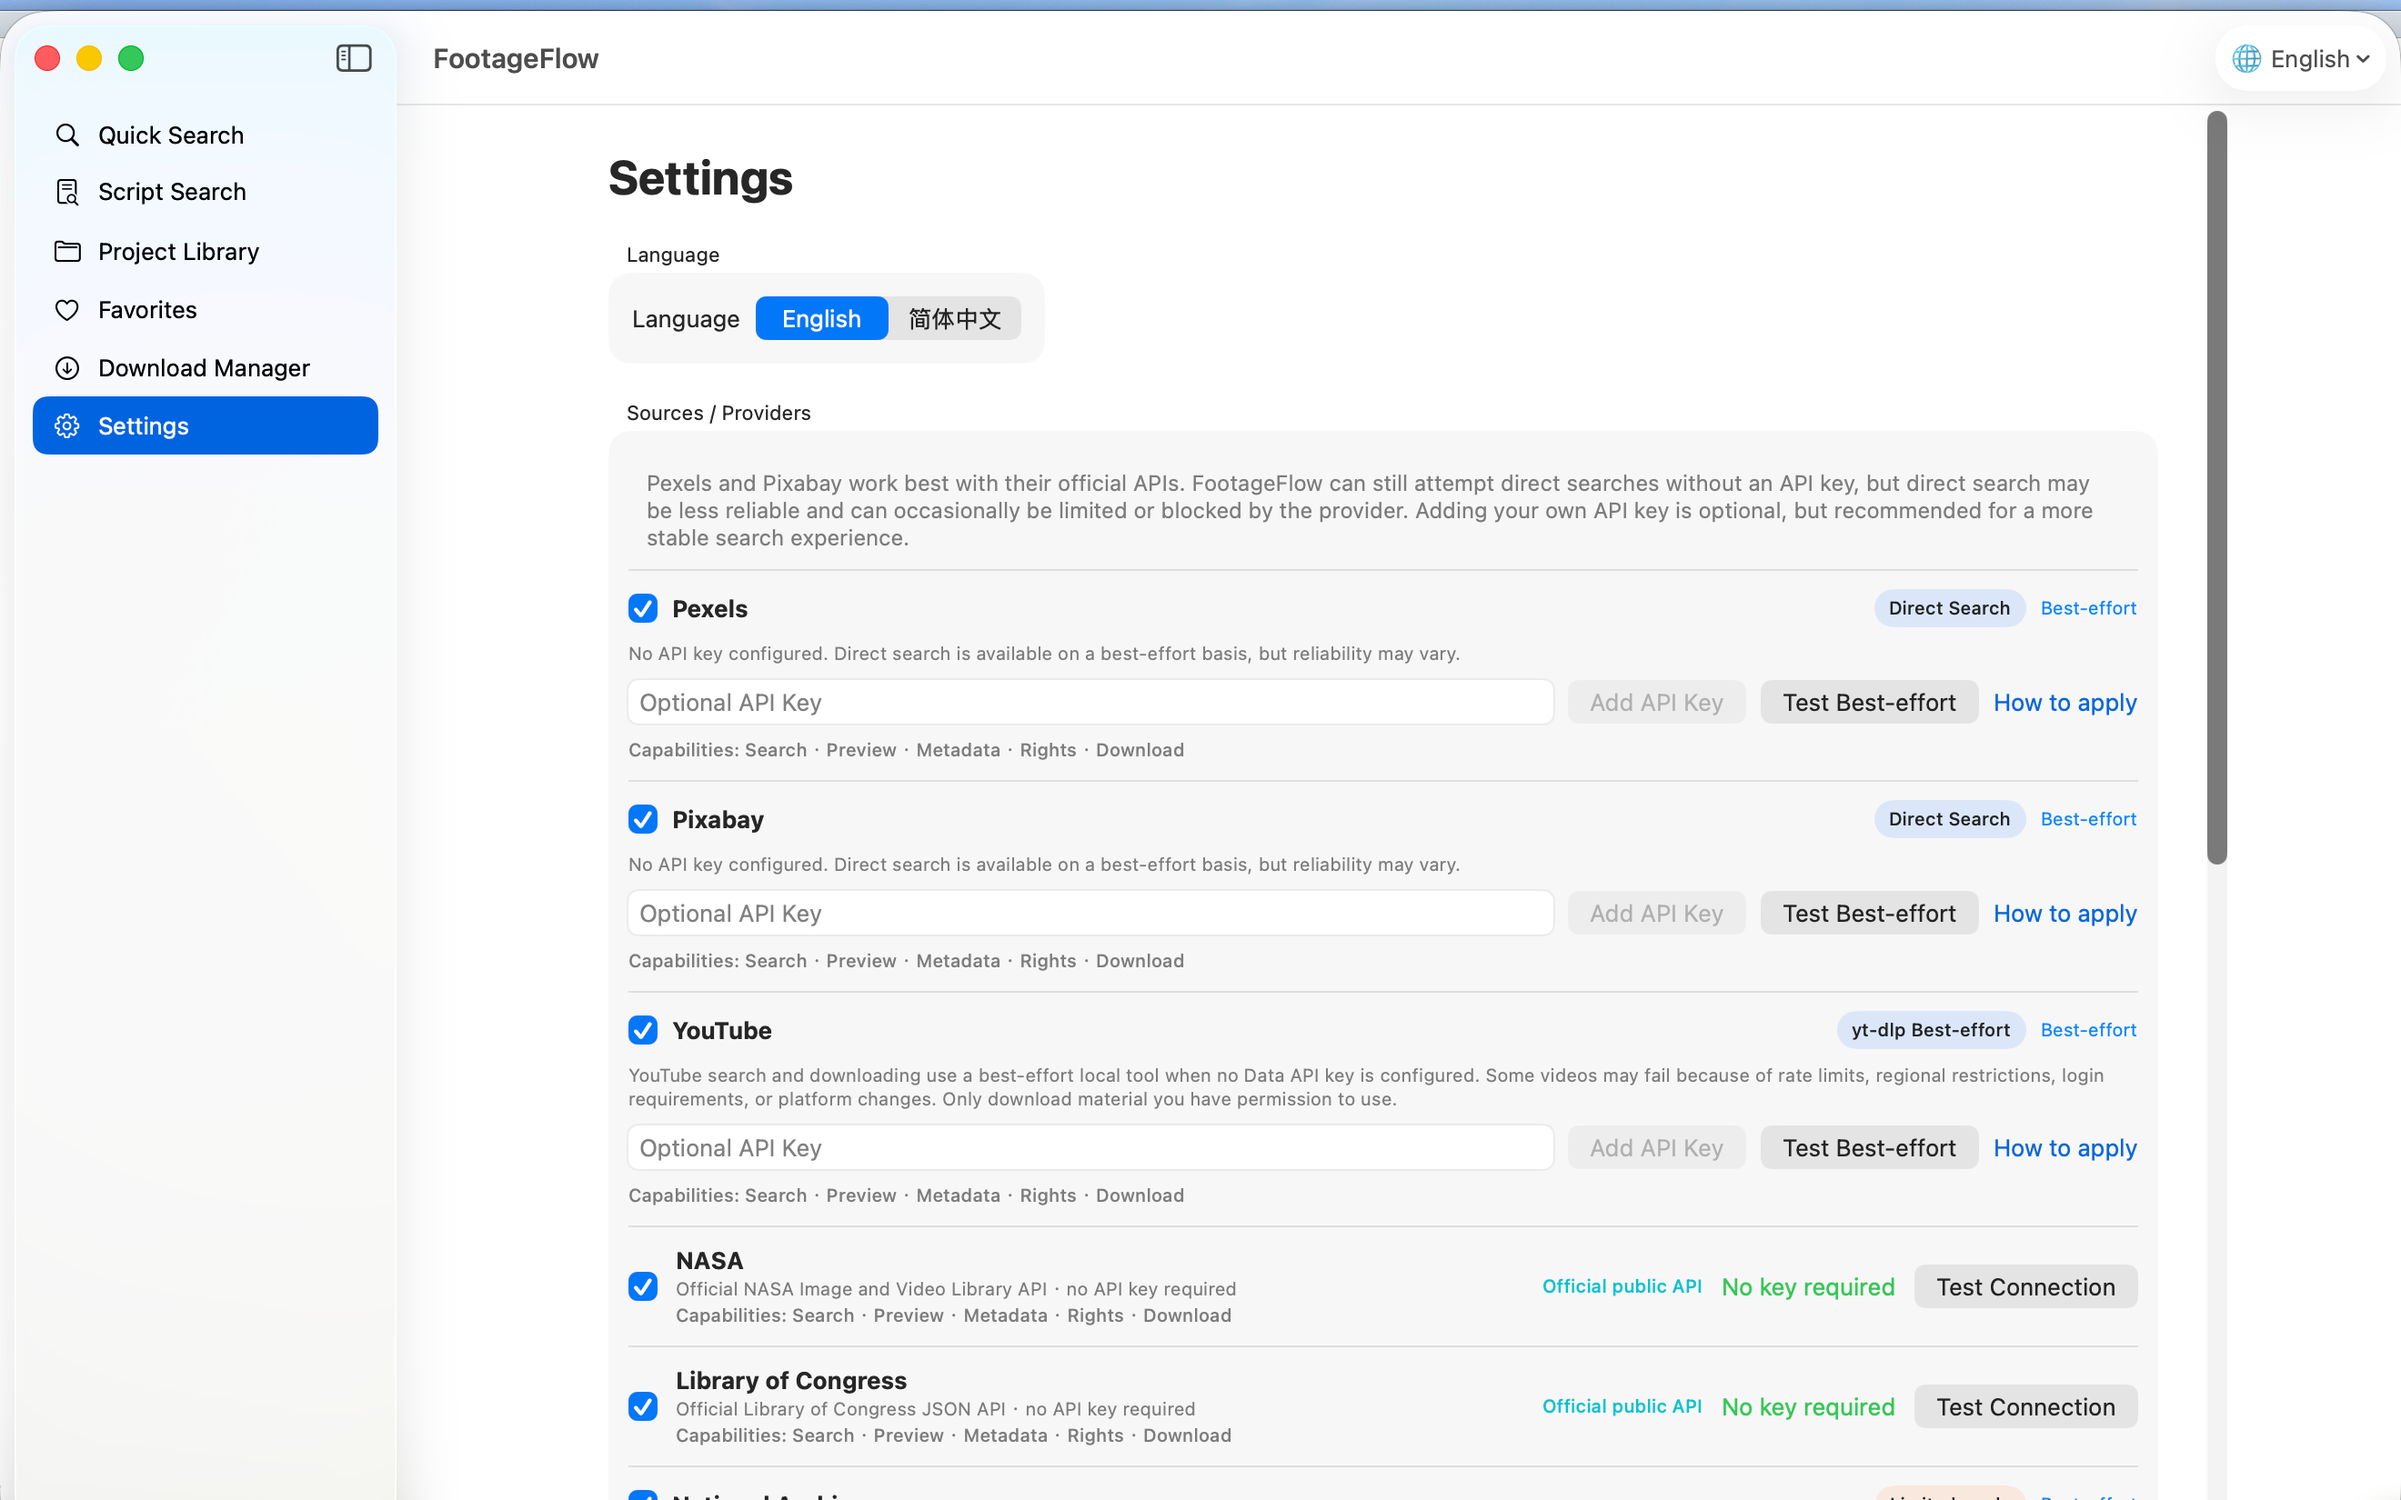
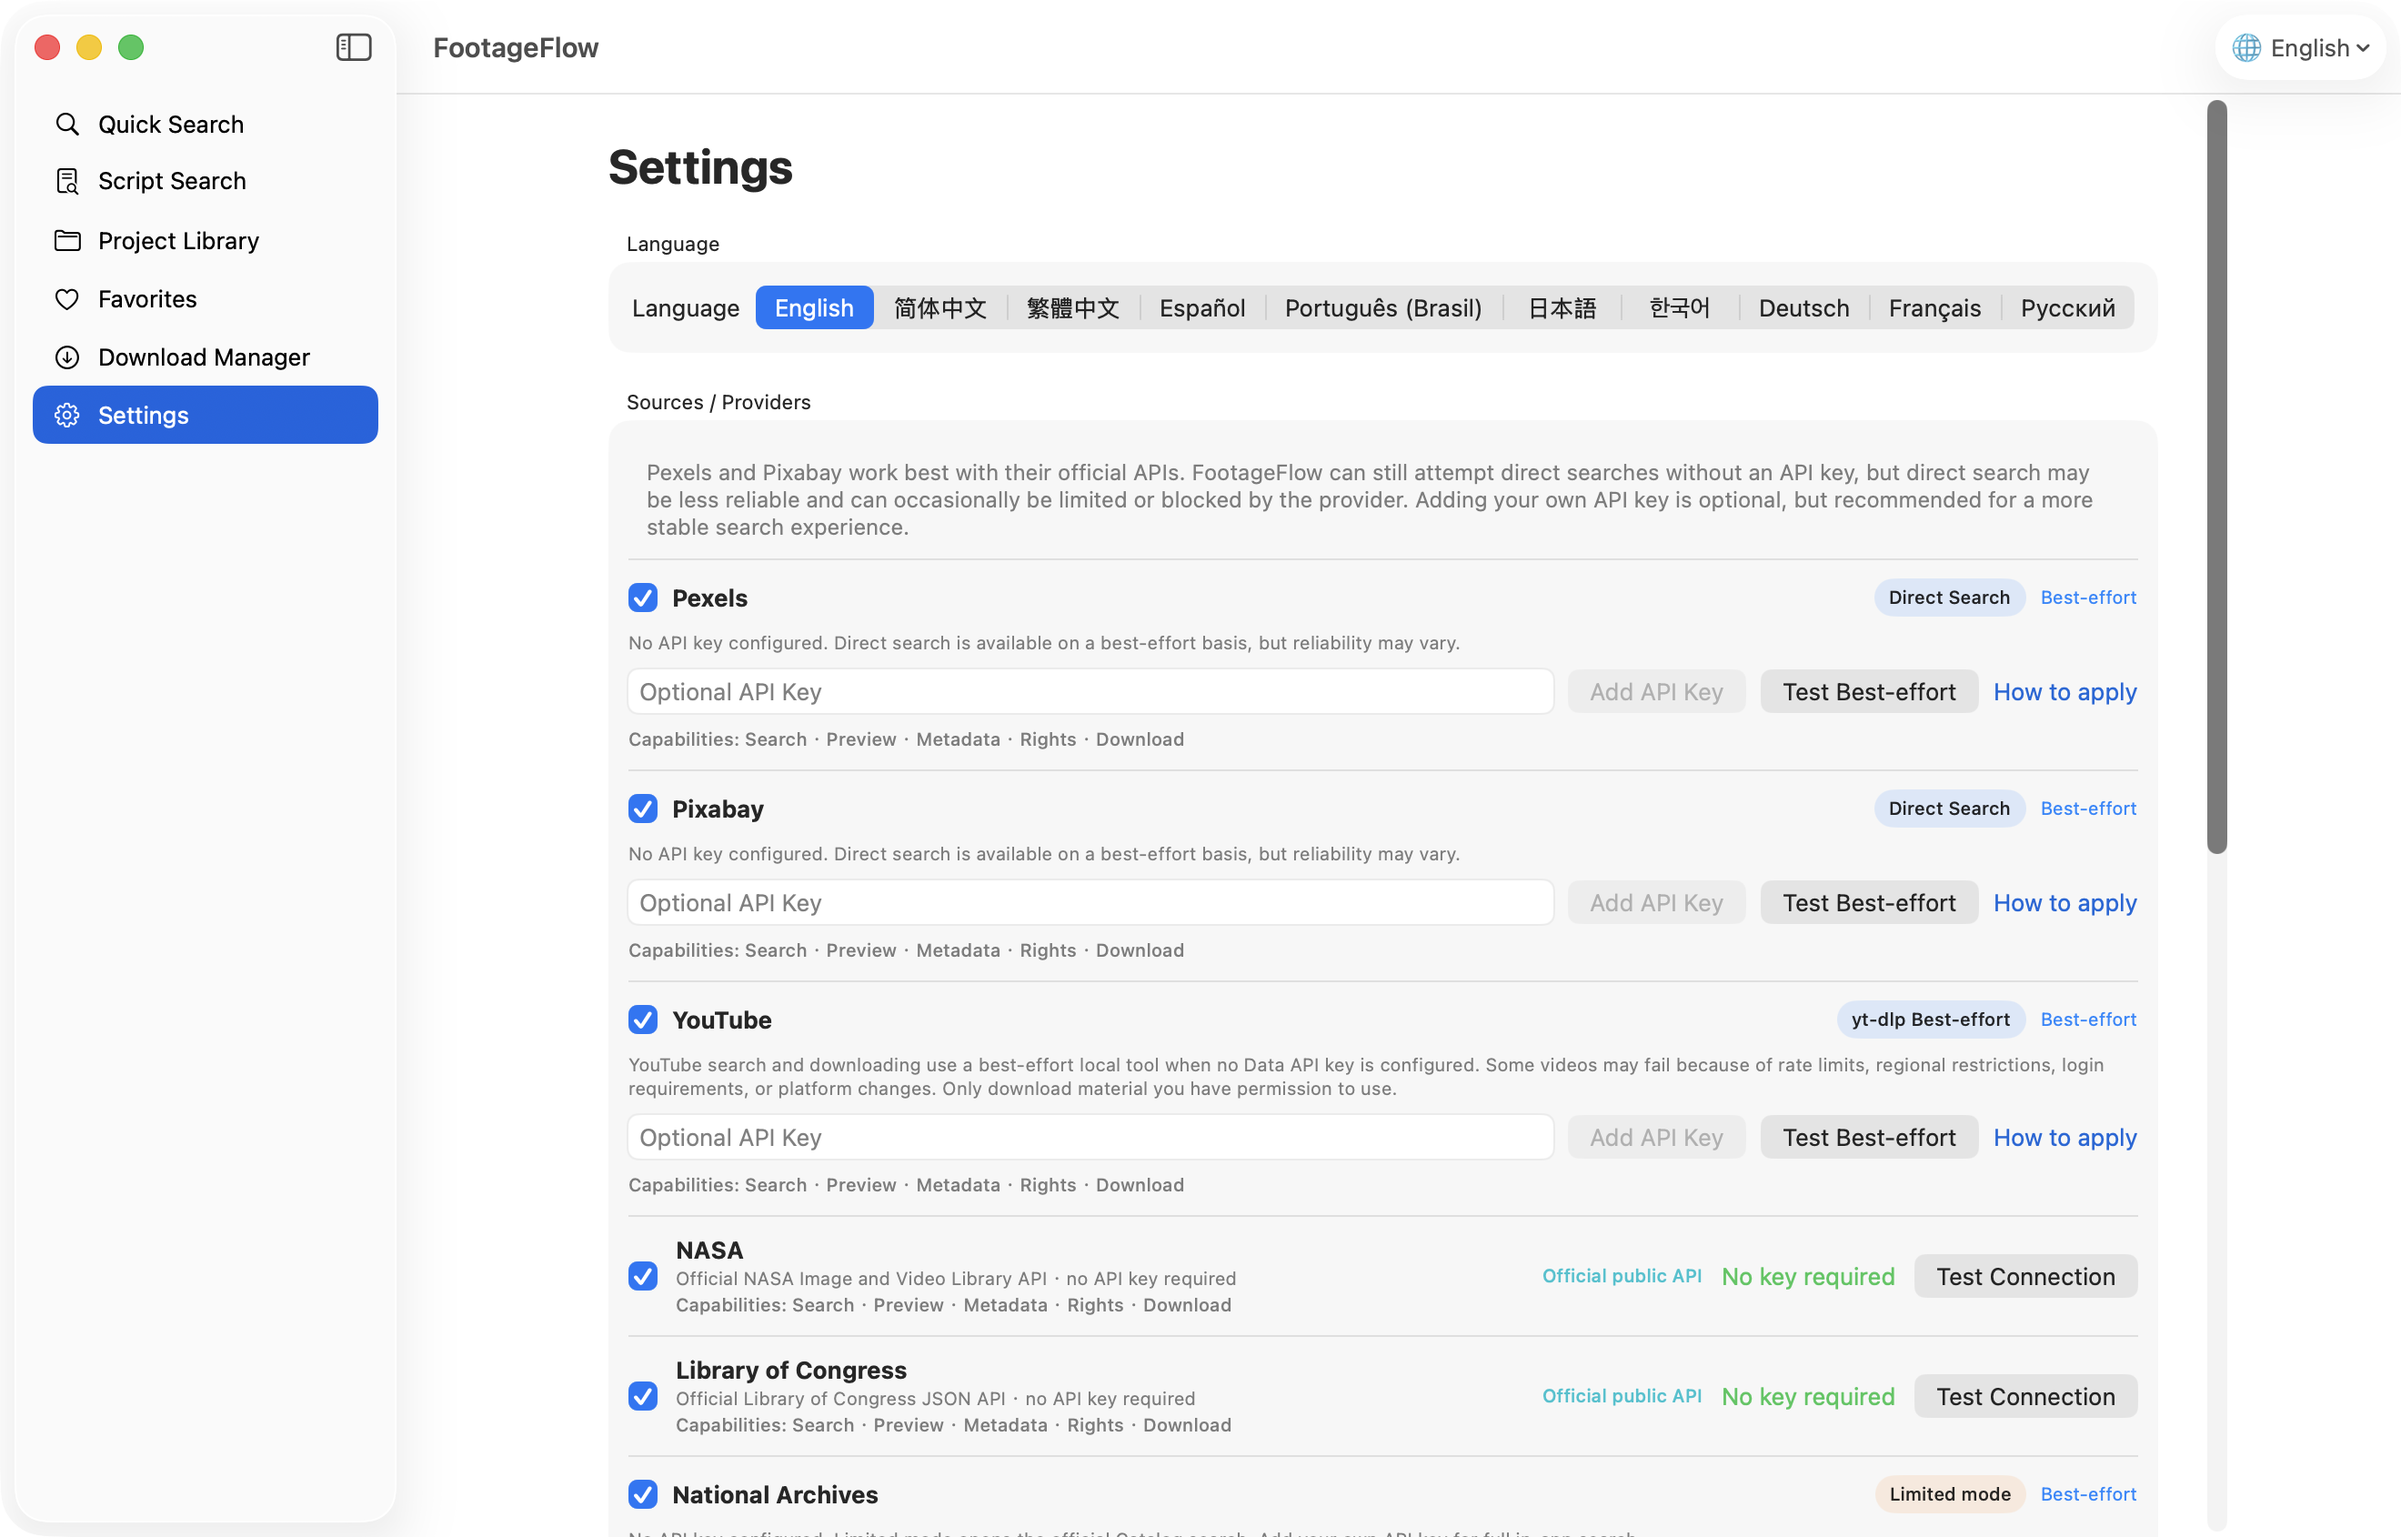
Update v0.4 screenshots (#4)

diff --git a/README.md b/README.md
@@ -25,13 +25,15 @@ YouTube search can use the official Data API when configured. FootageFlow also i
 
 ## Screenshots
 
-![FootageFlow main search](docs/images/main-search.png)
+These screenshots are from FootageFlow v0.4.0 on macOS and show the current nine-source search, optional-API guidance, advanced filters, batch actions, provider modes, and ten-language interface. The Windows edition follows the same product structure with platform-native controls.
 
-![FootageFlow advanced filters](docs/images/advanced-filters.png)
+![FootageFlow v0.4.0 nine-source search with optional API guidance](docs/images/main-search.png)
 
-![FootageFlow multi-select and batch download](docs/images/multi-select-batch-download.png)
+![FootageFlow v0.4.0 advanced filters](docs/images/advanced-filters.png)
 
-![FootageFlow provider settings](docs/images/provider-settings.png)
+![FootageFlow v0.4.0 multi-select and batch download](docs/images/multi-select-batch-download.png)
+
+![FootageFlow v0.4.0 provider modes and ten-language settings](docs/images/provider-settings.png)
 
 ## Install on macOS
 

diff --git a/README.zh-CN.md b/README.zh-CN.md
@@ -25,13 +25,15 @@ FootageFlow v0.4.0 正式支持 **macOS 15+ Apple Silicon** 和 **Windows 11 x64
 
 ## 界面截图
 
-![FootageFlow 主搜索](docs/images/main-search.png)
+以下截图来自 macOS 版 FootageFlow v0.4.0，展示当前 9 来源搜索、可选 API 建议、高级筛选、批量操作、Provider 模式和 10 种语言界面。Windows 版采用相同产品结构，并使用符合 Windows 习惯的原生控件。
 
-![FootageFlow 高级筛选](docs/images/advanced-filters.png)
+![FootageFlow v0.4.0 九来源搜索与可选 API 建议](docs/images/main-search.png)
 
-![FootageFlow 多选和批量下载](docs/images/multi-select-batch-download.png)
+![FootageFlow v0.4.0 高级筛选](docs/images/advanced-filters.png)
 
-![FootageFlow 素材来源设置](docs/images/provider-settings.png)
+![FootageFlow v0.4.0 多选和批量下载](docs/images/multi-select-batch-download.png)
+
+![FootageFlow v0.4.0 Provider 模式与 10 种语言设置](docs/images/provider-settings.png)
 
 ## 在 macOS 安装
 
